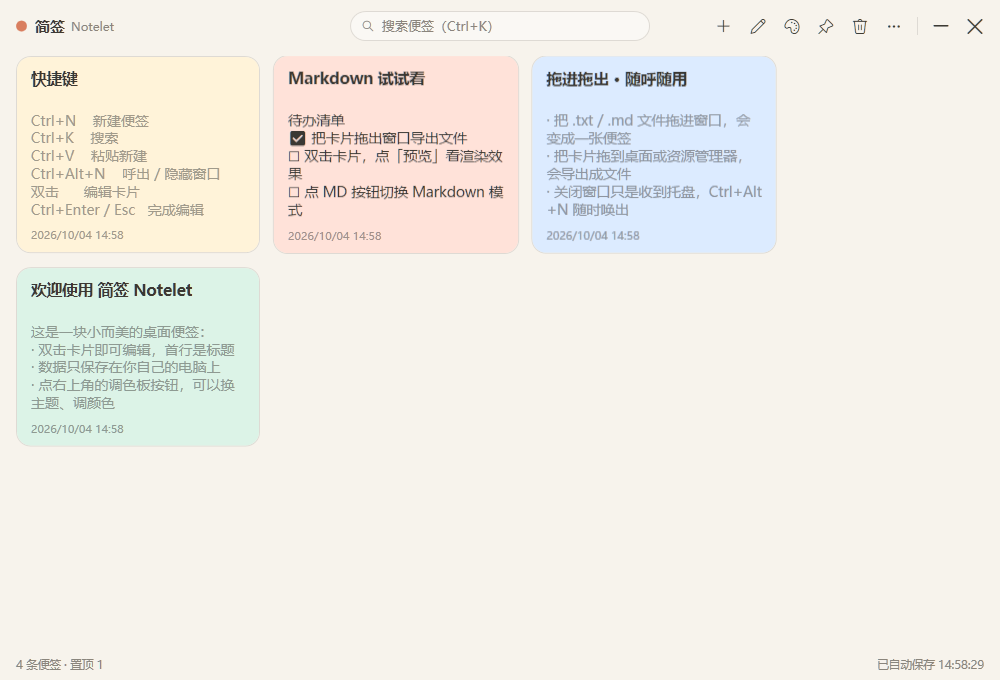
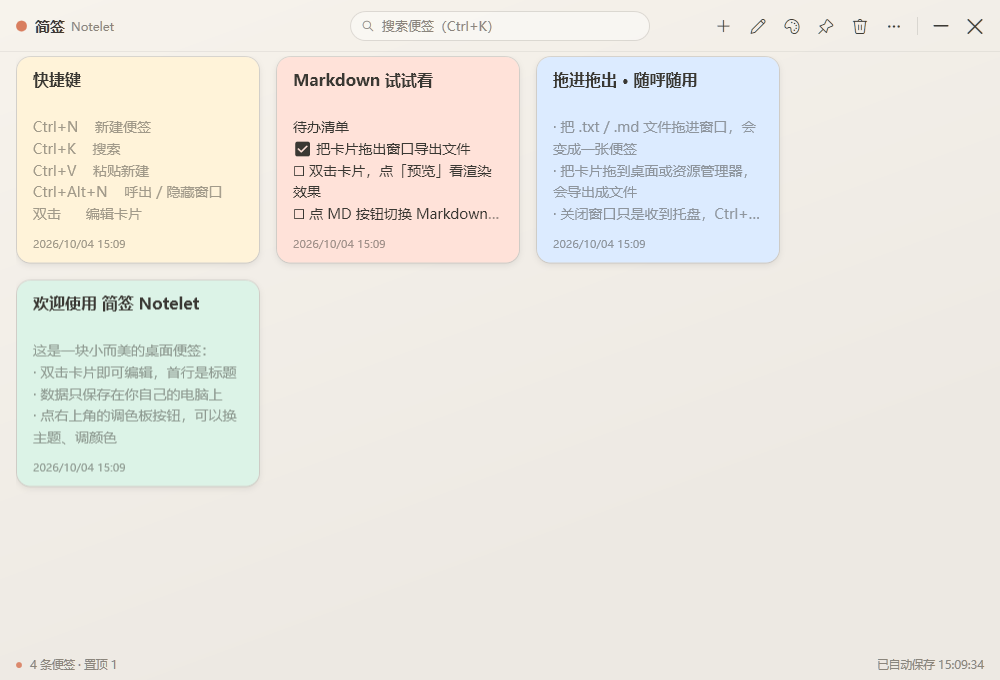
v1.3.0：分屏实时渲染 + 视觉精修
- 编辑分屏实时预览（对标花笺社区第一诉求「实时渲染编辑模式」）：
  MD / 预览 / 分屏三态切换，分屏输入即渲染，状态跨多次编辑保持
- 视觉精修：窗口底色向下微渐变、卡片常态投影（悬浮增强）、
  正文行高放松、标题字号提升、顶栏底部分隔线、状态栏强调色圆点、
  卡片间距放宽、快速便签头部提示
- 版本 1.3.0

diff --git a/src/Notelet/MainWindow.xaml b/src/Notelet/MainWindow.xaml
@@ -58,6 +58,8 @@
 
             <!-- ═══ 顶栏 ═══ -->
             <Grid Grid.Row="0">
+                <Border VerticalAlignment="Bottom" Height="1" IsHitTestVisible="False"
+                        Background="{DynamicResource Border.Brush}" Opacity="0.55"/>
                 <StackPanel Orientation="Horizontal" VerticalAlignment="Center" Margin="16,0,0,0">
                     <Ellipse Width="11" Height="11" Fill="{DynamicResource Accent.Brush}" VerticalAlignment="Center"/>
                     <TextBlock Text="简签" FontWeight="Bold" FontSize="15" Margin="8,0,0,0" VerticalAlignment="Center"/>
@@ -143,7 +145,7 @@
                                         CornerRadius="{DynamicResource Radius.CornerRadius}"
                                         Background="{Binding ColorKey, Converter={StaticResource NoteConv}, ConverterParameter=bg}"
                                         BorderBrush="{DynamicResource Border.Brush}" BorderThickness="1"
-                                        Margin="0,0,14,14" Cursor="Hand"
+                                        Margin="0,0,16,16" Cursor="Hand"
                                         RenderTransformOrigin="0.5,0.5"
                                         MouseLeftButtonDown="Card_MouseDown" MouseMove="Card_MouseMove"
                                         MouseRightButtonUp="Card_RightClick"
@@ -171,6 +173,7 @@
                                     </Border.Triggers>
                                     <Border.Style>
                                         <Style TargetType="Border">
+                                            <Setter Property="Effect" Value="{StaticResource CardRest.Shadow}"/>
                                             <Style.Triggers>
                                                 <Trigger Property="IsMouseOver" Value="True">
                                                     <Setter Property="Effect" Value="{StaticResource CardHover.Shadow}"/>
@@ -184,15 +187,16 @@
                                             </Style.Triggers>
                                         </Style>
                                     </Border.Style>
-                                    <StackPanel Margin="14,12,12,10">
+                                    <StackPanel Margin="16,13,14,12">
                                         <!-- 浏览态 -->
                                         <StackPanel x:Name="ViewPart">
                                             <TextBlock Text="{Binding Title}"
                                                        FontSize="{DynamicResource TitleSize.Double}" FontWeight="SemiBold"
                                                        TextTrimming="CharacterEllipsis"
                                                        Foreground="{Binding ColorKey, Converter={StaticResource NoteConv}, ConverterParameter=fg}"/>
-                                            <TextBlock Text="{Binding Body}" Margin="0,5,0,0"
+                                            <TextBlock Text="{Binding Body}" Margin="0,6,0,0"
                                                        FontSize="{DynamicResource BaseFontSize.Double}"
+                                                       LineHeight="{DynamicResource LineHeight.Double}"
                                                        TextWrapping="Wrap" MaxHeight="{DynamicResource BodyMax.Double}"
                                                        TextTrimming="CharacterEllipsis"
                                                        Foreground="{Binding ColorKey, Converter={StaticResource NoteConv}, ConverterParameter=sub}"
@@ -269,23 +273,55 @@
                                         </StackPanel>
                                         <!-- 编辑态 -->
                                         <StackPanel x:Name="EditPart" Visibility="Collapsed">
-                                            <TextBox x:Name="Editor"
-                                                     Text="{Binding Text, UpdateSourceTrigger=PropertyChanged}"
-                                                     AcceptsReturn="True" TextWrapping="Wrap"
-                                                     BorderThickness="0" Background="Transparent"
-                                                     MinHeight="110" MaxHeight="430" VerticalScrollBarVisibility="Auto"
-                                                     FontSize="{DynamicResource BaseFontSize.Double}"
-                                                     Foreground="{Binding ColorKey, Converter={StaticResource NoteConv}, ConverterParameter=fg}"
-                                                     CaretBrush="{DynamicResource Accent.Brush}"
-                                                     SelectionBrush="{DynamicResource Accent.Brush}"
-                                                     KeyDown="Editor_KeyDown"/>
-                                            <RichTextBox x:Name="PreviewBox"
-                                                         IsReadOnly="True" IsDocumentEnabled="True"
-                                                         BorderThickness="0" Background="Transparent" Padding="0"
+                                            <Grid>
+                                                <Grid.RowDefinitions>
+                                                    <RowDefinition Height="Auto"/>
+                                                    <RowDefinition Height="Auto"/>
+                                                </Grid.RowDefinitions>
+                                                <TextBox x:Name="Editor" Grid.Row="0"
+                                                         Text="{Binding Text, UpdateSourceTrigger=PropertyChanged}"
+                                                         AcceptsReturn="True" TextWrapping="Wrap"
+                                                         BorderThickness="0" Background="Transparent"
                                                          MinHeight="110" MaxHeight="430" VerticalScrollBarVisibility="Auto"
                                                          FontSize="{DynamicResource BaseFontSize.Double}"
                                                          Foreground="{Binding ColorKey, Converter={StaticResource NoteConv}, ConverterParameter=fg}"
-                                                         Visibility="Collapsed"/>
+                                                         CaretBrush="{DynamicResource Accent.Brush}"
+                                                         SelectionBrush="{DynamicResource Accent.Brush}"
+                                                         KeyDown="Editor_KeyDown">
+                                                    <TextBox.Style>
+                                                        <Style TargetType="TextBox">
+                                                            <Style.Triggers>
+                                                                <DataTrigger Binding="{Binding IsPreviewing}" Value="True">
+                                                                    <Setter Property="Visibility" Value="Collapsed"/>
+                                                                </DataTrigger>
+                                                            </Style.Triggers>
+                                                        </Style>
+                                                    </TextBox.Style>
+                                                </TextBox>
+                                                <RichTextBox x:Name="PreviewBox" Grid.Row="1"
+                                                             IsReadOnly="True" IsDocumentEnabled="True"
+                                                             BorderThickness="0" Background="Transparent" Padding="0"
+                                                             MinHeight="110" VerticalScrollBarVisibility="Auto"
+                                                             FontSize="{DynamicResource BaseFontSize.Double}"
+                                                             Foreground="{Binding ColorKey, Converter={StaticResource NoteConv}, ConverterParameter=fg}">
+                                                    <RichTextBox.Style>
+                                                        <Style TargetType="RichTextBox">
+                                                            <Setter Property="Visibility" Value="Collapsed"/>
+                                                            <Setter Property="MaxHeight" Value="430"/>
+                                                            <Style.Triggers>
+                                                                <DataTrigger Binding="{Binding IsPreviewing}" Value="True">
+                                                                    <Setter Property="Visibility" Value="Visible"/>
+                                                                </DataTrigger>
+                                                                <DataTrigger Binding="{Binding IsSplit}" Value="True">
+                                                                    <Setter Property="Visibility" Value="Visible"/>
+                                                                    <Setter Property="MaxHeight" Value="240"/>
+                                                                    <Setter Property="MinHeight" Value="90"/>
+                                                                </DataTrigger>
+                                                            </Style.Triggers>
+                                                        </Style>
+                                                    </RichTextBox.Style>
+                                                </RichTextBox>
+                                            </Grid>
                                             <DockPanel Margin="0,6,0,0">
                                                 <StackPanel Orientation="Horizontal" DockPanel.Dock="Left">
                                                     <Button Content="MD" FontFamily="Microsoft YaHei UI" Click="MdBtn_Click" ToolTip="以 Markdown 渲染">
@@ -311,6 +347,17 @@
                                                             </Style>
                                                         </Button.Style>
                                                     </Button>
+                                                    <Button Content="分屏" Click="SplitBtn_Click" ToolTip="编辑 + 实时渲染同屏（输入即渲染）" Margin="6,0,0,0">
+                                                        <Button.Style>
+                                                            <Style TargetType="Button" BasedOn="{StaticResource EditChip}">
+                                                                <Style.Triggers>
+                                                                    <DataTrigger Binding="{Binding IsSplit}" Value="True">
+                                                                        <Setter Property="Foreground" Value="{DynamicResource Accent.Brush}"/>
+                                                                    </DataTrigger>
+                                                                </Style.Triggers>
+                                                            </Style>
+                                                        </Button.Style>
+                                                    </Button>
                                                     <TextBlock FontSize="10.5" Foreground="{DynamicResource Sub.Brush}"
                                                                VerticalAlignment="Center" Margin="8,0,0,0"
                                                                Text="{Binding Text.Length, StringFormat={}{0} 字}"/>
@@ -325,6 +372,9 @@
                                                                 <DataTrigger Binding="{Binding IsPreviewing}" Value="True">
                                                                     <Setter Property="Text" Value="预览中：点击任务框可直接勾选"/>
                                                                 </DataTrigger>
+                                                                <DataTrigger Binding="{Binding IsSplit}" Value="True">
+                                                                    <Setter Property="Text" Value="分屏实时渲染中：输入即所见"/>
+                                                                </DataTrigger>
                                                             </Style.Triggers>
                                                         </Style>
                                                     </TextBlock.Style>
@@ -337,10 +387,6 @@
                                     <DataTrigger Binding="{Binding IsEditing}" Value="True">
                                         <Setter TargetName="ViewPart" Property="Visibility" Value="Collapsed"/>
                                         <Setter TargetName="EditPart" Property="Visibility" Value="Visible"/>
-                                    </DataTrigger>
-                                    <DataTrigger Binding="{Binding IsPreviewing}" Value="True">
-                                        <Setter TargetName="Editor" Property="Visibility" Value="Collapsed"/>
-                                        <Setter TargetName="PreviewBox" Property="Visibility" Value="Visible"/>
                                     </DataTrigger>
                                     <DataTrigger Binding="{Binding TrashMode, RelativeSource={RelativeSource AncestorType=Window}}" Value="True">
                                         <Setter TargetName="NormalOps" Property="Visibility" Value="Collapsed"/>
@@ -407,7 +453,12 @@
 
             <!-- ═══ 状态栏 ═══ -->
             <Grid Grid.Row="2" Margin="16,0">
-                <TextBlock x:Name="StatusLeft" FontSize="11.5" Foreground="{DynamicResource Sub.Brush}" VerticalAlignment="Center"/>
+                <StackPanel Orientation="Horizontal">
+                    <Ellipse Width="6" Height="6" Fill="{DynamicResource Accent.Brush}" Opacity="0.9"
+                             VerticalAlignment="Center"/>
+                    <TextBlock x:Name="StatusLeft" FontSize="11.5" Foreground="{DynamicResource Sub.Brush}"
+                               VerticalAlignment="Center" Margin="8,0,0,0"/>
+                </StackPanel>
                 <TextBlock x:Name="StatusRight" FontSize="11.5" Foreground="{DynamicResource Sub.Brush}"
                            VerticalAlignment="Center" HorizontalAlignment="Right"/>
             </Grid>

diff --git a/src/Notelet/App.xaml b/src/Notelet/App.xaml
@@ -17,14 +17,16 @@
 
         <CornerRadius x:Key="Radius.CornerRadius">14</CornerRadius>
         <sys:Double x:Key="BaseFontSize.Double">14</sys:Double>
-        <sys:Double x:Key="TitleSize.Double">15.5</sys:Double>
-        <sys:Double x:Key="BodyMax.Double">126</sys:Double>
+        <sys:Double x:Key="TitleSize.Double">16</sys:Double>
+        <sys:Double x:Key="LineHeight.Double">21.5</sys:Double>
+        <sys:Double x:Key="BodyMax.Double">128</sys:Double>
         <sys:Double x:Key="CardWidth.Double">244</sys:Double>
 
         <FontFamily x:Key="BaseFont.FontFamily">Microsoft YaHei UI</FontFamily>
         <FontFamily x:Key="IconFont.FontFamily">Segoe Fluent Icons, Segoe MDL2 Assets</FontFamily>
 
         <DropShadowEffect x:Key="CardHover.Shadow" BlurRadius="18" ShadowDepth="3" Direction="270" Opacity="0.20" Color="#000000"/>
+        <DropShadowEffect x:Key="CardRest.Shadow" BlurRadius="10" ShadowDepth="2" Direction="270" Opacity="0.10" Color="#000000"/>
 
         <!-- 图标按钮（顶栏 / 磁贴栏） -->
         <Style x:Key="IconBtn" TargetType="Button">

diff --git a/src/Notelet/QuickNoteWindow.xaml b/src/Notelet/QuickNoteWindow.xaml
@@ -23,6 +23,8 @@
             <StackPanel Orientation="Horizontal" Margin="12,0,0,0">
                 <Ellipse x:Name="ColorDot" Width="9" Height="9" VerticalAlignment="Center"/>
                 <TextBlock Text="快速便签" FontSize="12" FontWeight="SemiBold" Margin="7,0,0,0" VerticalAlignment="Center"/>
+                <TextBlock Text="Ctrl+Alt+Q 随时再开一张" FontSize="10.5" Foreground="{DynamicResource Sub.Brush}"
+                           Margin="10,1,0,0" VerticalAlignment="Center"/>
             </StackPanel>
             <Button Content="&#xE8BB;" Style="{StaticResource CloseBtn}" Width="28" Height="28" FontSize="12"
                     HorizontalAlignment="Right" Click="CloseBtn_Click" ToolTip="保存并关闭"/>

diff --git a/src/Notelet/Services/ThemeService.cs b/src/Notelet/Services/ThemeService.cs
@@ -27,7 +27,7 @@ public static class ThemeService
         Version++;
 
         var r = Application.Current.Resources;
-        r["Bg.Brush"] = Brush(t.Bg);
+        r["Bg.Brush"] = BgGradient(t.Bg);
         r["Card.Brush"] = Brush(t.Card);
         r["Text.Brush"] = Brush(t.Text);
         r["Sub.Brush"] = Brush(t.Sub);
@@ -37,8 +37,9 @@ public static class ThemeService
         r["ThumbBrush"] = t.IsDark ? BrushAlpha("#FFFFFF", 0x33) : BrushAlpha("#000000", 0x2E);
         r["Radius.CornerRadius"] = new CornerRadius(t.Radius);
         r["BaseFontSize.Double"] = t.FontSize;
-        r["TitleSize.Double"] = t.FontSize + 1.5;
-        r["BodyMax.Double"] = t.FontSize * 1.5 * 6;
+        r["TitleSize.Double"] = t.FontSize + 2;
+        r["LineHeight.Double"] = t.FontSize * 1.55;
+        r["BodyMax.Double"] = t.FontSize * 1.55 * 6;
         r["CardWidth.Double"] = t.CardWidth;
         r["BaseFont.FontFamily"] = new FontFamily(t.Font);
     }
@@ -67,7 +68,7 @@ public static class ThemeService
         {
             Dwm.DisableBackdrop(hwnd);
             chrome.GlassFrameThickness = new Thickness(0);
-            w.Background = Brush(t.Bg);
+            w.Background = (Brush)Application.Current.Resources["Bg.Brush"];
         }
     }
 
@@ -77,6 +78,21 @@ public static class ThemeService
         var c = Palette.FromHex(t.Bg);
         c.A = (byte)(t.IsDark ? 150 : 125);
         return BrushFrom(c);
+    }
+
+    /// <summary>窗口底色：向下微渐变，比纯色更有层次。</summary>
+    static LinearGradientBrush BgGradient(string hex)
+    {
+        var top = Palette.FromHex(hex);
+        var bottom = Color.FromRgb(
+            (byte)(top.R * 0.962), (byte)(top.G * 0.962), (byte)(top.B * 0.962));
+        var b = new LinearGradientBrush(top, bottom, 90)
+        {
+            StartPoint = new Point(0, 0),
+            EndPoint = new Point(0.25, 1),
+        };
+        b.Freeze();
+        return b;
     }
 
     static SolidColorBrush Brush(string hex) => BrushFrom(Palette.FromHex(hex));

diff --git a/src/Notelet/MainWindow.xaml.cs b/src/Notelet/MainWindow.xaml.cs
@@ -348,6 +348,7 @@ public partial class MainWindow : Window
         if (n.Deleted || TrashMode) return;
         n.IsPreviewing = false;
         SetPreview(n, false);
+        if (n.IsSplit) SetPreview(n, true); // 分屏状态在多次编辑间保持
         n.IsEditing = true;
         Dispatcher.BeginInvoke(DispatcherPriority.Input, () => FocusEditor(n));
     }
@@ -614,8 +615,17 @@ public partial class MainWindow : Window
     void PreviewBtn_Click(object sender, RoutedEventArgs e)
     {
         if ((sender as FrameworkElement)?.DataContext is not Note n) return;
+        if (!n.IsPreviewing) n.IsSplit = false;
         n.IsPreviewing = !n.IsPreviewing;
         SetPreview(n, n.IsPreviewing);
+    }
+
+    void SplitBtn_Click(object sender, RoutedEventArgs e)
+    {
+        if ((sender as FrameworkElement)?.DataContext is not Note n) return;
+        n.IsSplit = !n.IsSplit;
+        if (n.IsSplit && n.IsPreviewing) n.IsPreviewing = false;
+        SetPreview(n, n.IsSplit);
     }
 
     void TileBtn_Click(object sender, RoutedEventArgs e)

diff --git a/src/Notelet/Models/Note.cs b/src/Notelet/Models/Note.cs
@@ -12,6 +12,7 @@ public class Note : INotifyPropertyChanged
     bool _previewing;
     bool _isMarkdown;
     bool _tiled;
+    bool _split;
     bool _deleted;
 
     public string Id { get; set; } = Guid.NewGuid().ToString("N");
@@ -74,6 +75,14 @@ public class Note : INotifyPropertyChanged
     {
         get => _tiled;
         set { if (_tiled == value) return; _tiled = value; OnP(); }
+    }
+
+    /// <summary>编辑时是否分屏实时渲染（仅运行时）。</summary>
+    [JsonIgnore]
+    public bool IsSplit
+    {
+        get => _split;
+        set { if (_split == value) return; _split = value; OnP(); }
     }
 
     public DateTime CreatedAt { get; set; } = DateTime.Now;

diff --git a/README.md b/README.md
@@ -12,7 +12,7 @@
 ## ✨ 特性
 
 - **卡片便签墙** —— 双击空白处 / `Ctrl+N` 新建；双击卡片直接编辑，首行自动作为标题
-- **Markdown** —— 卡片上的 **MD** 按钮开启后，正文按 Markdown 渲染（标题/列表/任务清单/引用/代码块/粗体/斜体/删除线/行内代码/链接）；编辑中可一键切换「预览」，预览里**直接点击任务框勾选**，自动回写原文；编辑时实时显示字数
+- **Markdown** —— 卡片上的 **MD** 按钮开启后，正文按 Markdown 渲染（标题/列表/任务清单/引用/代码块/粗体/斜体/删除线/行内代码/链接）；编辑中支持「**分屏实时渲染**」（输入即所见，花笺社区第一诉求）与「预览」两种模式，预览/分屏里**直接点击任务框勾选**，自动回写原文；编辑时实时显示字数
 - **图片便签** —— 拖入图片文件或 `Ctrl+V` 粘贴截图，自动保存到本地数据目录并在卡片上显示缩略图；预览、磁贴中按 `![](文件名)` 内嵌显示；拖出/导出文件时图片随行
 - **快速便签** —— `Ctrl+Alt+Q`（或托盘菜单）随手唤出小窗，**可多开**，关闭即保存进便签墙，空内容自动丢弃
 - **拖进来** —— 把 `.txt` / `.md` / `.log` / `.csv` 等文本文件**或图片**拖进窗口，即变成便签（文本自动识别 UTF-8 / GB18030 编码）；复制文字后 `Ctrl+V` 也能直接变成新便签
@@ -77,7 +77,7 @@ C# / .NET 9 WPF，无任何第三方依赖。窗口背景使用 DWM 系统级云
 ## 🗺 Roadmap
 
 - [ ] 全局热键自定义
-- [ ] 存储目录自定义（当前为 %APPDATA%\Notelet）
+- [ ] 便签文件夹式存储（.md 文件 + 外部编辑热重载，可被 Obsidian / OneDrive 直接使用）
 - [ ] 便签图片压缩与多选操作
 - [ ] 多语言（English UI）
 
